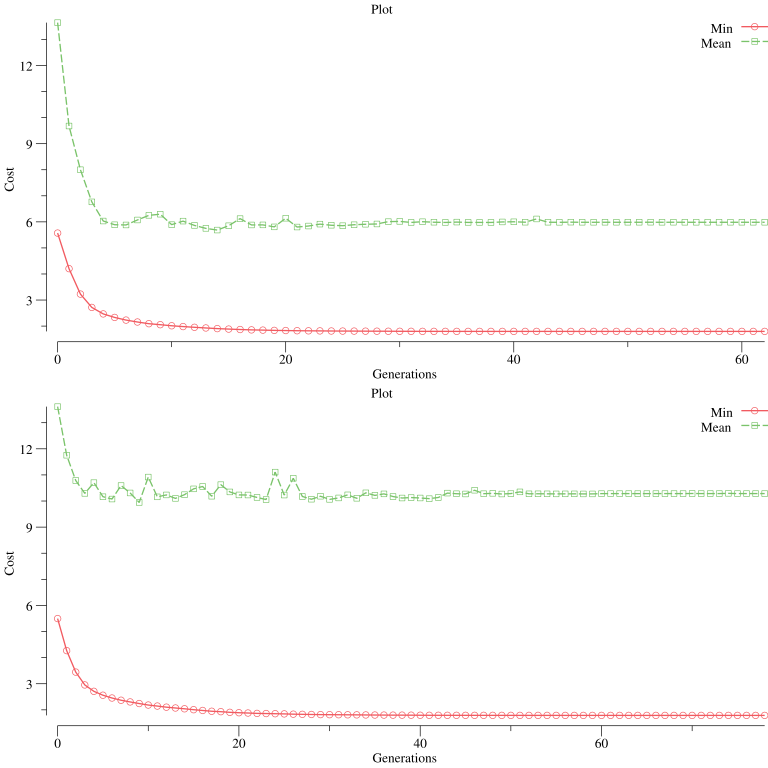
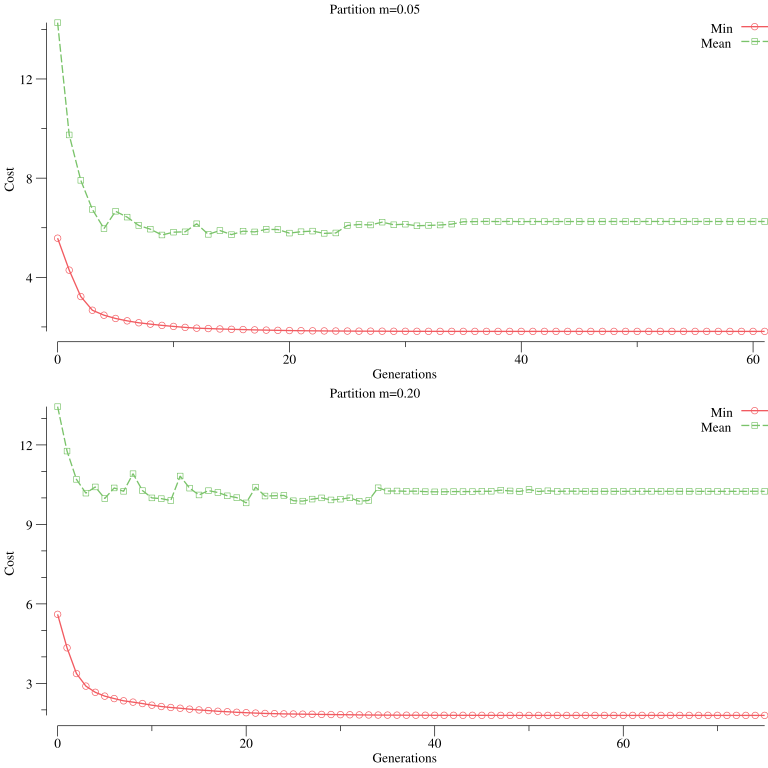
Fixed plot's title

diff --git a/plotting/plotter.go b/plotting/plotter.go
@@ -169,7 +169,7 @@ func newPlot(plotter *Plotter, title string) *plot {
 		panic(err)
 	}
 
-	p.plot.Title.Text = "Plot"
+	p.plot.Title.Text = title
 	p.plot.X.Label.Text = "Generations"
 	p.plot.Y.Label.Text = "Cost"
 	p.plot.Legend.Top = true
